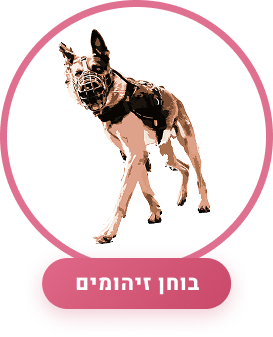
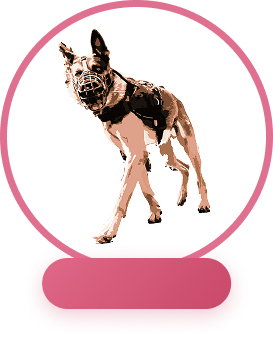
grw

Changed region(s): [[0.2637, 0.8012, 0.5568, 0.8605], [0.5861, 0.8012, 0.7326, 0.8902]]

diff --git a/src/components/Quiz100.jsx b/src/components/Quiz100.jsx
@@ -44,7 +44,7 @@ const IconX = () => (
 );
 
 // ─── Main Component ───────────────────────────────────────────────────────────
-export default function Quiz100({ questions: QUESTIONS }) {
+export default function Quiz100({ questions: QUESTIONS, quizTitle = 'בוחן הכשרה' }) {
   // Screen state
   const [screen, setScreen] = useState('intro');
   const [agreedConfidentiality, setAgreedConfidentiality] = useState(false);
@@ -312,7 +312,10 @@ export default function Quiz100({ questions: QUESTIONS }) {
         {screen === 'intro' && (
           <div key="intro" className="screen screen--intro anim-fade-up" style={{ paddingTop: '10vh' }}>
             <div className="intro__dog-wrap">
-              <img src={dogIntroImg} alt="בוחן זיהומים" className="intro__dog-img" />
+              <div className="intro__image-container">
+                <img src={dogIntroImg} alt={quizTitle} className="intro__dog-img" />
+                <span className="intro__title-overlay">{quizTitle}</span>
+              </div>
             </div>
             <div className="intro__stats">
               <div className="intro__stat">

diff --git a/src/components/QuizPage.jsx b/src/components/QuizPage.jsx
@@ -3,6 +3,19 @@ import { useParams } from 'react-router-dom';
 import Quiz100 from './Quiz100';
 import quizData from '../data/quizData';
 
+const QUIZ_TITLES = {
+  'heat-load':           'עומס חום',
+  'intro':               'מבוא לוטרינריה',
+  'physical-exam':       'בדיקה גופנית',
+  'first-aid':           'עזרה ראשונה',
+  'gdv':                 'היפוך קיבה',
+  'poisoning':           'הרעלות',
+  'fitness':             'כושר גופני',
+  'infectious-diseases': 'מחלות זיהומיות',
+  'reproductive-system': 'מערכת הרבייה',
+  'spirocerca':          'ספירוצרקה',
+};
+
 export default function QuizPage() {
   const { quizId } = useParams();
   const questions = quizData[quizId];
@@ -16,5 +29,7 @@ export default function QuizPage() {
     );
   }
 
-  return <Quiz100 questions={questions} />;
+  const quizTitle = QUIZ_TITLES[quizId] ?? 'בוחן הכשרה';
+
+  return <Quiz100 questions={questions} quizTitle={quizTitle} />;
 }

diff --git a/src/components/Quiz100.css b/src/components/Quiz100.css
@@ -110,17 +110,44 @@
   padding-bottom: 28px;
 }
 
-/* Dog + title image (opening.png contains both as one combined image) */
+/* Dog image + title overlay */
 .intro__dog-wrap {
   display: flex;
   justify-content: center;
 }
 
-.intro__dog-img {
+.intro__image-container {
+  position: relative;
   width: 65%;
   max-width: 245px;
+}
+
+.intro__dog-img {
+  width: 100%;
   height: auto;
+  display: block;
   object-fit: contain;
+}
+
+/* Positioned over the pink pill at the bottom of opening.png */
+.intro__title-overlay {
+    position: absolute;
+    bottom: 11%;
+    left: 50%;
+    transform: translateX(-50%);
+    width: 56%;
+    text-align: center;
+    font-family: 'Heebo', sans-serif;
+    font-size: clamp(9px, 3.2vw, px);
+    font-weight: 1500px;
+    color: #ffffff;
+    line-height: 1.2;
+    white-space: nowrap;
+    overflow: hidden;
+    text-overflow: ellipsis;
+    pointer-events: none;
+    font-size: x-large;
+    font-weight: 600;
 }
 
 /* Stats row — 3 equal cards */
